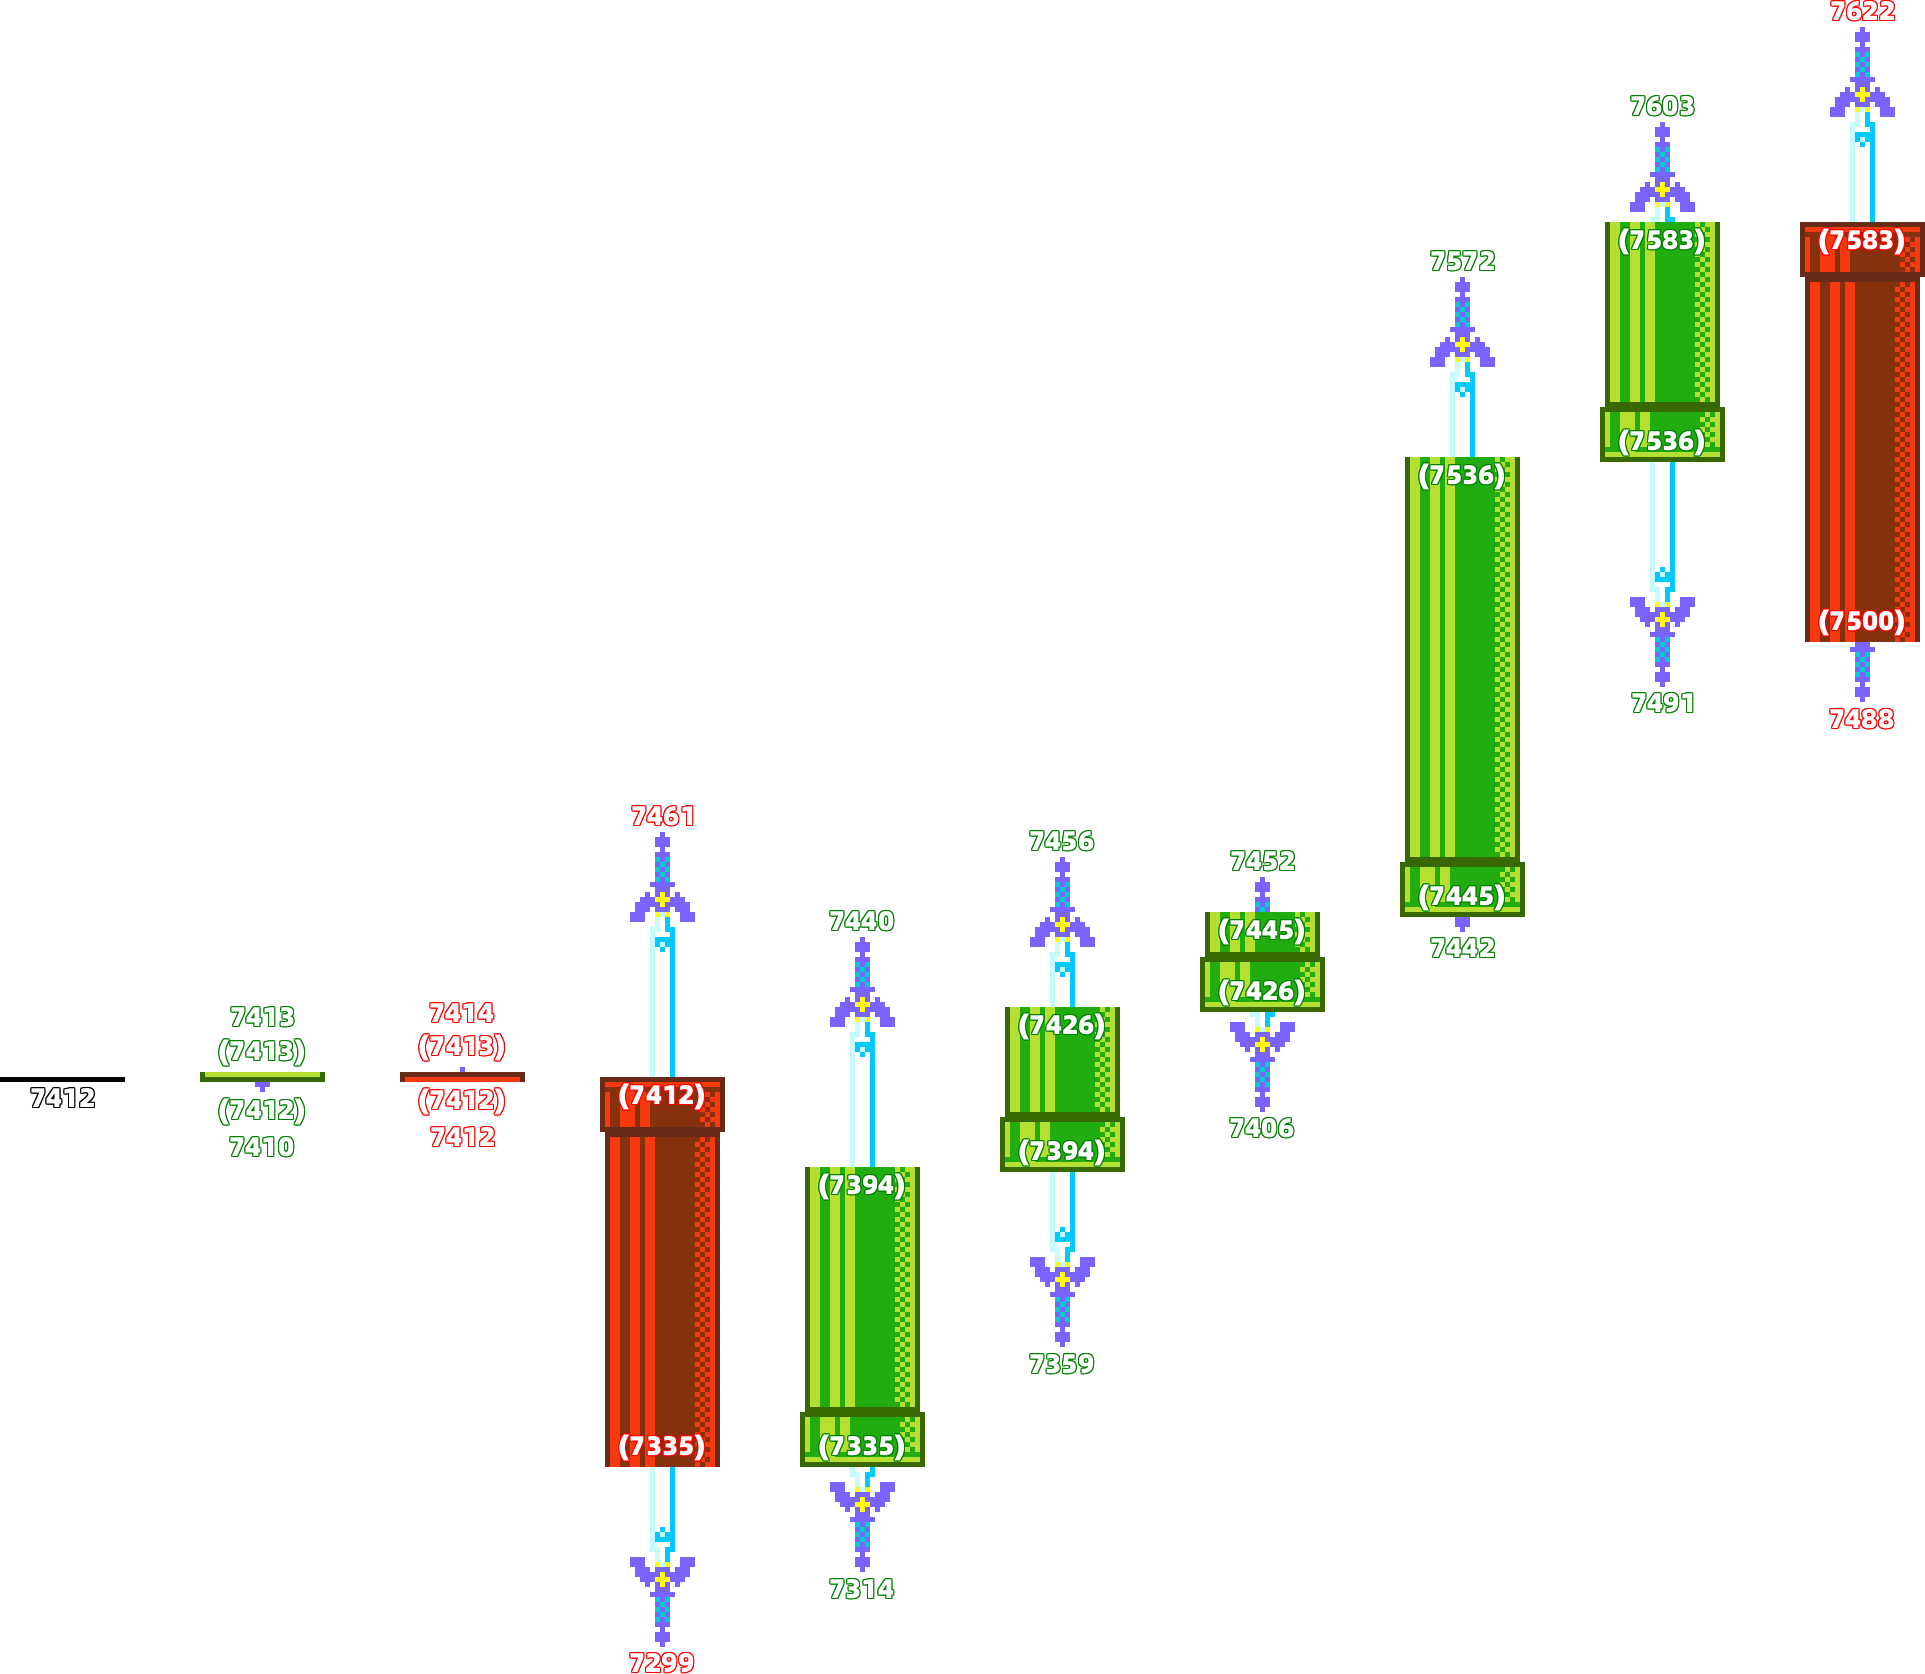
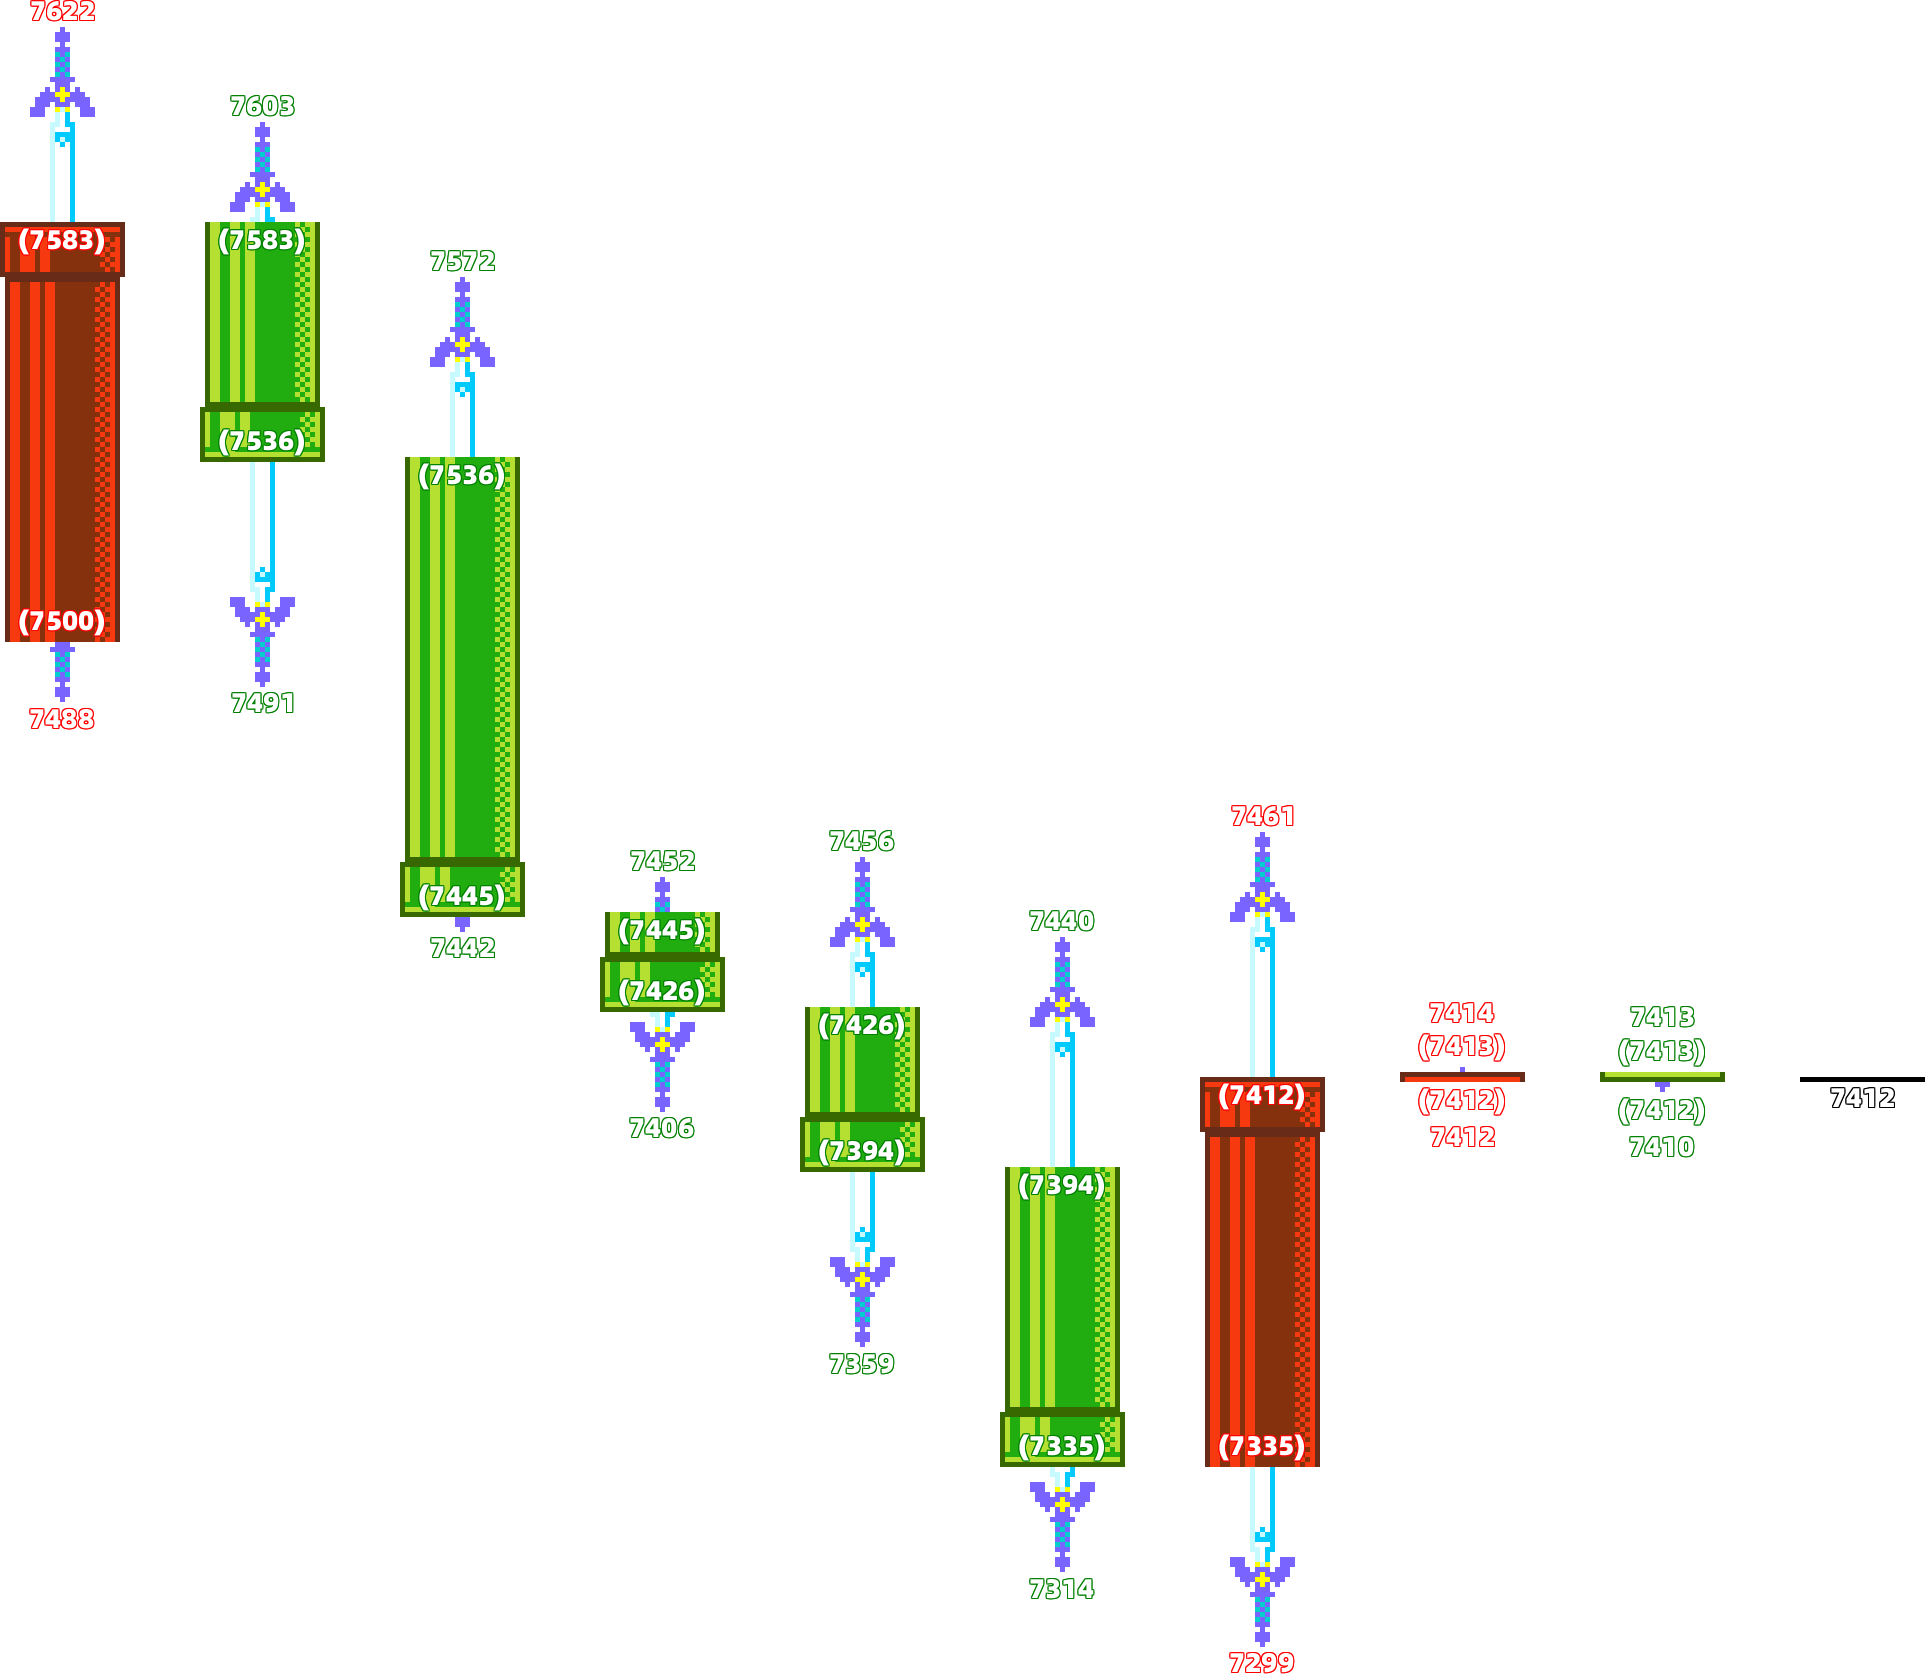
#Fixed: Ignore empty lines in CSV

diff --git a/reorder-csv.py b/reorder-csv.py
@@ -1,0 +1,22 @@
+import csv
+
+klines: list[list[int]] = []
+
+
+with open('template/kline.csv', 'r+') as f:
+    reader = csv.reader(f)
+    header = next(reader)
+    kline_ts: list[int] = []
+    kline_datas: list[list[int]] = []
+    for row in reader:
+        timestamp, *data = map(int, row)
+        kline_ts.append(timestamp)
+        kline_datas.append(data)
+    kline_ts.reverse()
+    for ts, data in zip(kline_ts, kline_datas):
+        klines.append([ts, *data])
+    f.seek(0)
+    f.truncate()
+    writer = csv.writer(f)
+    writer.writerow(header)
+    writer.writerows(klines)

diff --git a/asset/candle.py b/asset/candle.py
@@ -317,7 +317,9 @@ class CandleGroup:
                 _ = next(reader) # skip header
                 self._candles = []
                 for row in reader:
-                    t, o, h, l, c = map(int, row)
+                    try:
+                        t, o, h, l, c = map(int, row)
+                    except: continue
                     self._candles.append(Candle(timestamp=t, open=o, high=h, low=l, close=c))
                 self._candles.sort(key=lambda x: x.timestamp)
         else:
